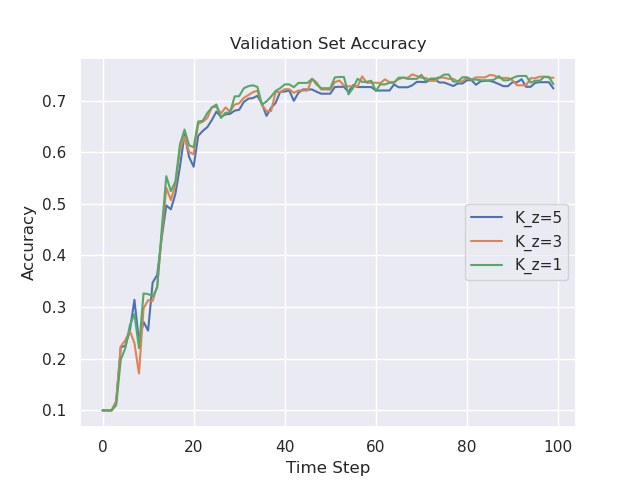
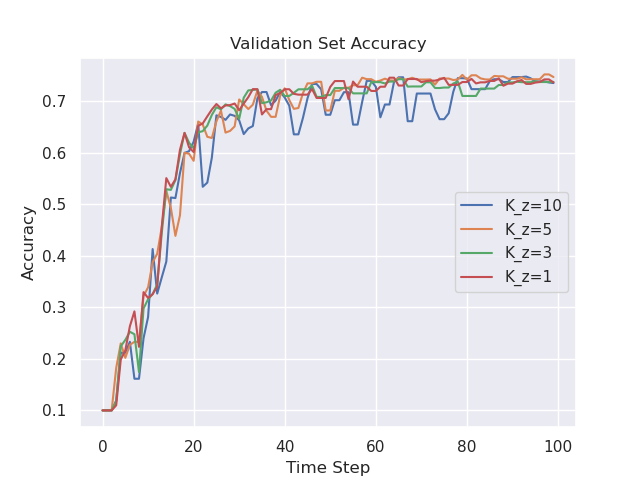
tried contorlling power of Z but didnt't really work

diff --git a/experiments/cluster/cifar/cifar_federated.py b/experiments/cluster/cifar/cifar_federated.py
@@ -103,14 +103,7 @@ if __name__ == '__main__':
         labels[int(target.item())] += 1
     print(f'Validation dataset {i} distribution: {labels} - num_samples = {labels.sum()}')
 
-    # 2 agents, batch 256, epochs 1 -> 100 steps per agent = 200 steps - 80% test acc
-    # 10 agents, batch 50, epochs 1 -> 100 steps per agent = 1000 steps - 68% test acc
-    # 10 agents (niid), batch 50, epochs 2 -> 200 steps per agent over 100 rounds = 2000 steps - 30% test acc
-    # batch_size = 32
-    # train_loaders = [DataLoader(dataset, batch_size=batch_size, shuffle=True, num_workers=8, persistent_workers=True) for dataset in trainsets]
-    # test_loader = DataLoader(cifar_testset, batch_size=batch_size, shuffle=True, num_workers=8, persistent_workers=True)
-    # val_loader = DataLoader(val_dataset, batch_size=batch_size, shuffle=True, num_workers=8, persistent_workers=True)
-
+    
     """
     Setting up Consensus Problem
     """
@@ -122,7 +115,8 @@ if __name__ == '__main__':
     
     # rate_refs = [0.1, 0.2, 0.3, 0.4, 0.5, 0.6, 1]
     rate_ref=0.1
-    Kzs = [10, 5, 3, 1]
+    Kzs = [5, 3, 1]
+    Kzs = [10]
     # Kzs.reverse()
     lr = 0.01
     t_max = 100
@@ -141,6 +135,7 @@ if __name__ == '__main__':
     item_key = 'K_z'
 
     for i, item in enumerate(item_list):
+        print(f'Testing with K_z = {item} and initialising delta_z = 0 and using PI control')
         
         agents = []
         for j, loader in enumerate(trainloaders):

diff --git a/admm/agents.py b/admm/agents.py
@@ -52,14 +52,15 @@ class FedConsensus:
         self.primal_avg = self.copy_params(params)
         if round > 0: self.dual_update()
         
-        local_grad, local_loss = self.Lagrangian(use_global=False, params=params)
-        global_grad, global_loss = self.Lagrangian(use_global=True, params=params)
-        print(f'local diff {local_loss}, global diff: {global_loss}')
-        if local_loss >= global_loss: using_global: int = 1
-        else: using_global: int = 0
-
+        # local_grad, local_loss = self.Lagrangian(use_global=False, params=params)
+        # global_grad, global_loss = self.Lagrangian(use_global=True, params=params)
+        # print(f'local diff {local_loss}, global diff: {global_loss}')
+        # if local_loss >= global_loss: using_global: int = 1
+        # else: using_global: int = 0
+        using_global = 1
         # Solve argmin problem
-        if using_global == 1: self.model = self.set_parameters(model=self.model, parameters=params)
+        # if using_global == 1: self.model = self.set_parameters(model=self.model, parameters=params)
+        self.model = self.set_parameters(model=self.model, parameters=params)
         for _ in range(self.epochs):
             for i, (data, target) in enumerate(self.train_loader):
                 data, target = data.to(self.device), target.type(torch.LongTensor).to(self.device)

diff --git a/admm/servers.py b/admm/servers.py
@@ -115,7 +115,8 @@ class EventADMM:
                 for agent in self.agents: agent.delta = delta
                 # self.delta_z = delta
                 integral += global_comm/(round+1) - rate_ref
-                self.delta_z = K_z*(global_comm/(round+1) - rate_ref) + 0.01*integral
+                self.delta_z = K_z*(global_comm/(round+1) - rate_ref) #+ 0.01*integral
+                # self.delta_z = K_z*integral
                 # self.delta_z = 7
                 if self.delta_z <= 0: delta = 0
 
